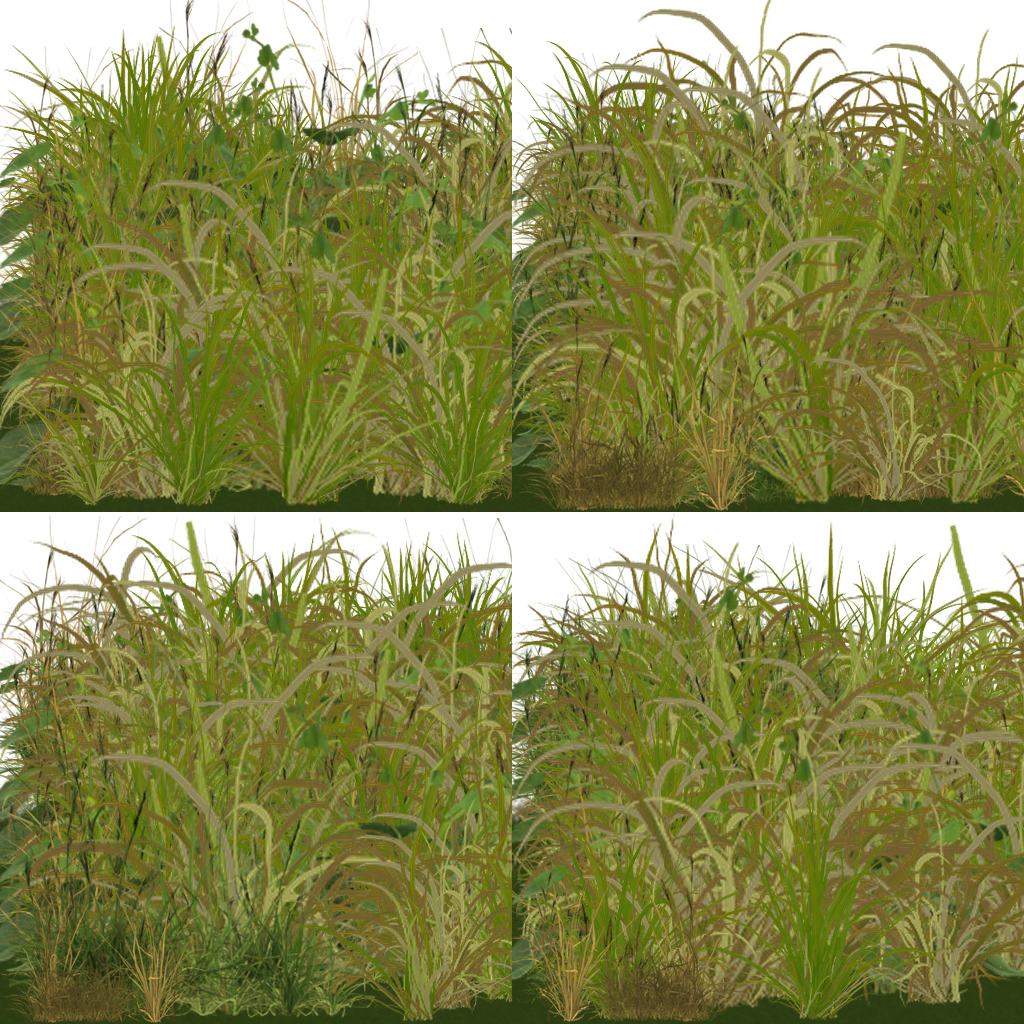
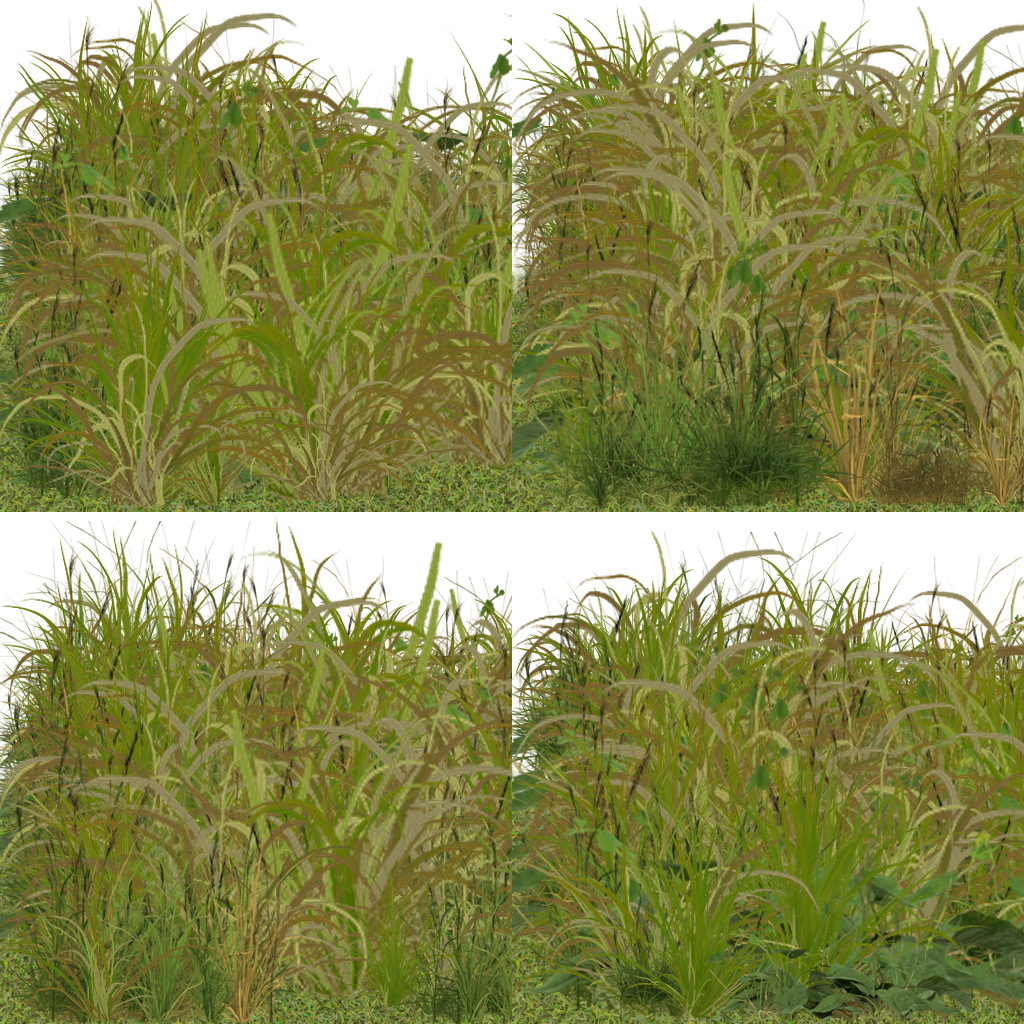
Vejir atlas: podklad z fotky travniku Grass004 (CC0), svetlejsi pata
Claude-Session: https://claude.ai/code/session_01WeT6YyZ78tWTNnktyKgoyQ

diff --git a/tools/vejir_atlas.py b/tools/vejir_atlas.py
@@ -6,6 +6,9 @@ import random
 from PIL import Image, ImageFilter
 
 ROOT = __file__.rsplit("/tools/", 1)[0]
+# fotka travniku: ambientCG Grass004_1K-JPG_Color.jpg (CC0) - argument, jinak obrazky/zdroje
+import sys
+TRAVNIK = sys.argv[1] if len(sys.argv) > 1 else ROOT + "/obrazky/zdroje/grass004_color.jpg"
 C = 512
 
 
@@ -28,16 +31,20 @@ atlas = Image.new("RGBA", (C * 2, C * 2), (0, 0, 0, 0))
 for k in range(4):
     rng = random.Random(1393 + k)
     cell = Image.new("RGBA", (C, C), (0, 0, 0, 0))
-    # podklad: spodni 45 % souvisla zelen (stin uvnitr porostu), nahore roztrepana hranice
+    # podklad: spodni 45 % fotka husteho travniku (ambientCG Grass004, CC0 - stejna jako teren louky), svetla jako
+    # osvetlene listy; nahore roztrepana hranice (test dira: plochy tmavy podklad byl videt jako dira)
+    foto = Image.open(TRAVNIK).convert("RGB").resize((C, C))
+    foto = Image.eval(foto, lambda v: min(255, int(v * 1.15)))
     base = Image.new("RGBA", (C, C), (0, 0, 0, 0))
-    px = base.load()
-    for y in range(C):
-        for x in range(C):
-            t = y / C
-            if t > 0.55 + 0.06 * rng.random():
-                g = 0.75 + 0.25 * rng.random()
-                px[x, y] = (int(52 * g), int(70 * g), int(22 * g), 255)
-    cell.alpha_composite(base.filter(ImageFilter.GaussianBlur(1.2)))
+    base.paste(foto, (0, 0))
+    maska = Image.new("L", (C, C), 0)
+    mp = maska.load()
+    for x in range(C):
+        hr = int(C * (0.5 + 0.08 * rng.random()))
+        for y in range(hr, C):
+            mp[x, y] = 255
+    base.putalpha(maska.filter(ImageFilter.GaussianBlur(2.0)))
+    cell.alpha_composite(base)
     # trsy od zadu dopredu (pata nahodne 45-100 % vysky), mensi vzadu
     stoupy = []
     for _ in range(170):
@@ -58,8 +65,8 @@ for k in range(4):
         for x in range(C):
             r, g, b, a = px[x, y]
             if a < 255:
-                px[x, y] = (int(r * a / 255 + 46 * (1 - a / 255)), int(g * a / 255 + 62 * (1 - a / 255)),
-                            int(b * a / 255 + 20 * (1 - a / 255)), 255)
+                px[x, y] = (int(r * a / 255 + 98 * (1 - a / 255)), int(g * a / 255 + 118 * (1 - a / 255)),
+                            int(b * a / 255 + 46 * (1 - a / 255)), 255)
     atlas.alpha_composite(cell, ((k % 2) * C, (k // 2) * C))
 atlas.save(ROOT + "/obrazky/vejir_atlas.png")
 print("vejir_atlas.png", atlas.size)
